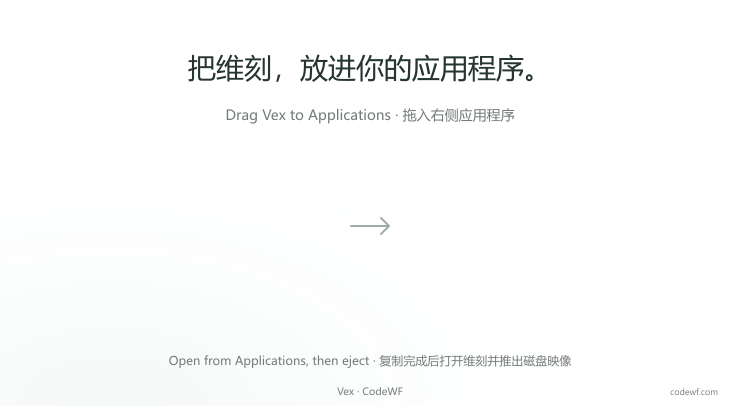
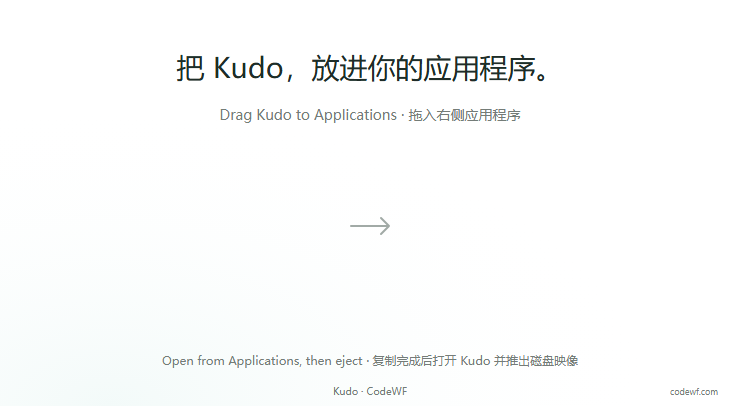
dmg品牌换Kudo

diff --git a/scripts/installer/macos/README.md b/scripts/installer/macos/README.md
@@ -2,4 +2,4 @@
 
 DMG 布局、语言、资源生成、设备清理、签名与验证统一见 [安装与发布](../../../docs/安装与发布.md)。
 
-本目录源自 CodeWF.Avalonia/scripts/installer/macos，保留自包含引擎与来源摘要；视觉资源按 Vex 原型覆盖。本 README 是本地导航，正文已集中到 docs。
+本目录源自 CodeWF.Avalonia/scripts/installer/macos，保留自包含引擎与来源摘要；视觉资源按 Kudo 品牌覆盖。本 README 是本地导航，正文已集中到 docs。
